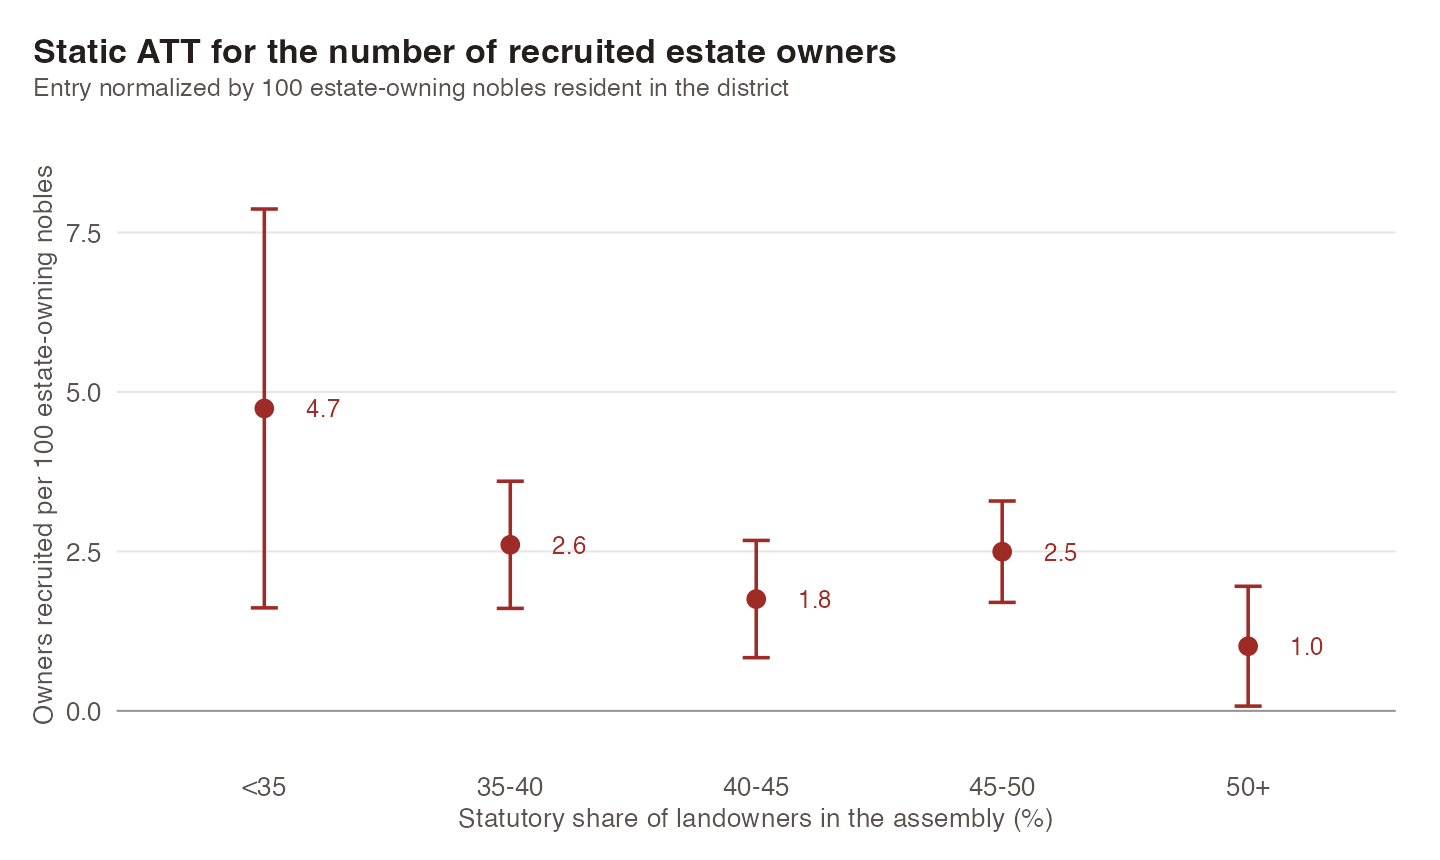
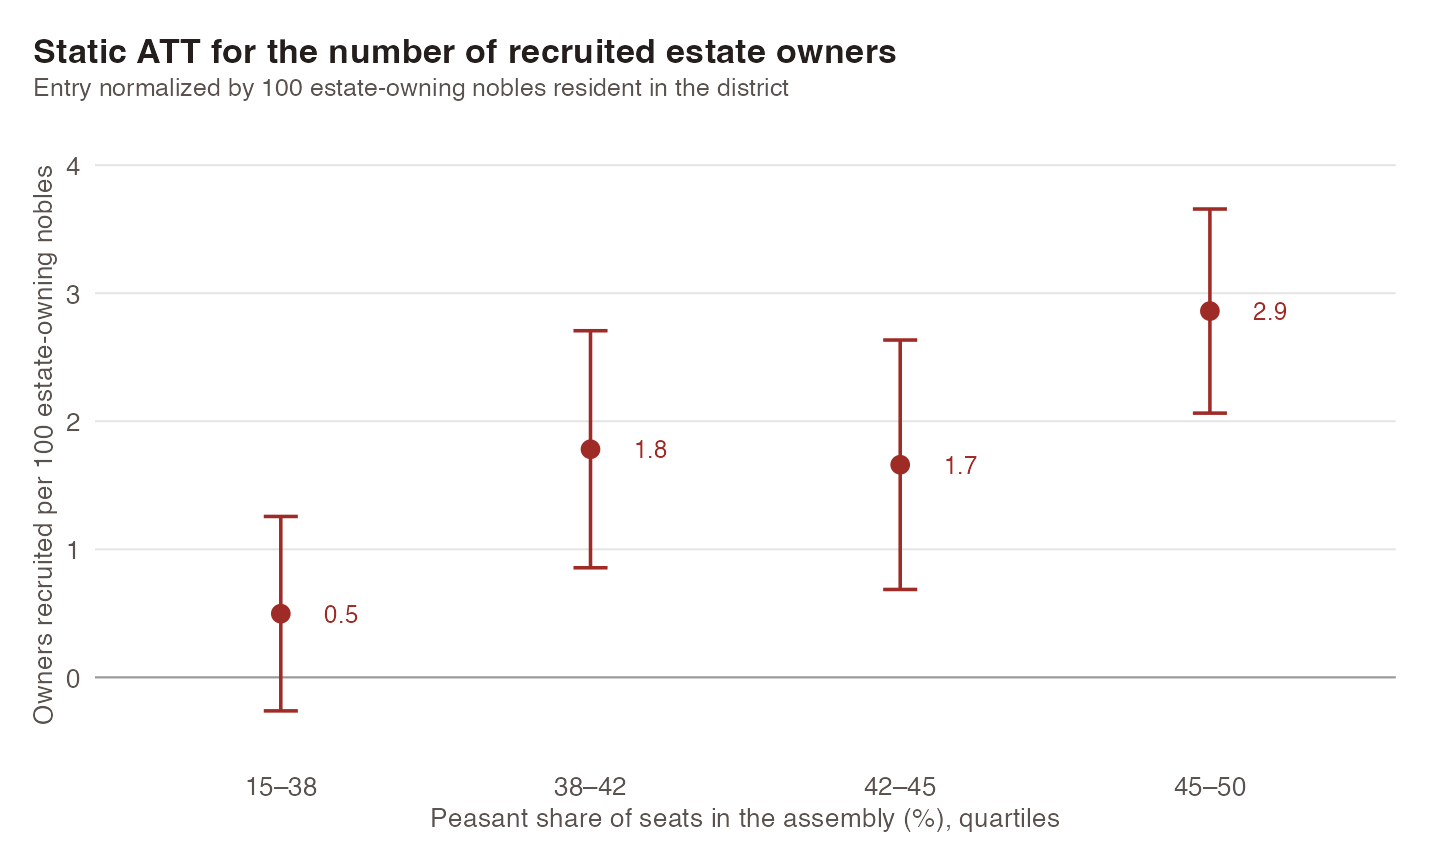
Rebuild zemstvo figure on predicted peasant-curia quartiles (balanced bands) and update caption

diff --git a/research.html b/research.html
@@ -273,7 +273,7 @@
             <p class="status"><span class="pill working">Working paper</span><span class="pill year">2026</span></p>
             <p class="byline">with Otto Kienitz</p>
             <details><summary>Abstract</summary><div class="abstract"><p>How do weak states build local capacity when they lack the money, the personnel, and the information to govern their own territory? We argue they can do it by deliberately empowering the majority against the very elites on whom their rule depends. A weak state needs local elites to staff the offices that implement policy, but it also needs more revenue and public goods than those elites, left in control of policy, will ever supply. Enfranchising a non-elite majority closes the gap twice over: it raises revenue by taxing the elite, and it draws elite members into the bureaucracy, because their marginal contribution to public goods provision rises with the revenue raised. The state then tunes the level of enfranchisement to keep elites from retaking power and extracting rents from the majority. We test the theory on the 1864 <em>zemstvo</em> reform in the Russian Empire, which produced an explosion of elite participation in local administration even as elite political power fell. We reconstruct the archival formula that allocated assembly seats and trace local political power through the taxation of noble estates, the assemblies&rsquo; budgets, and their policy record. Where the majority held power, the elite paid more, and more of the peasant-facing agenda was implemented. Participatory local government in the Russian Empire emerged not from democratic pressure below, but from an autocracy building state capacity from a position of severe weakness.</p></div></details>
-            <figure class="paperfig"><a class="figlink" href="images/figures/fig-zemstvo.png"><img src="images/figures/fig-zemstvo.png" alt="Point-and-interval plot of the static average treatment effect on owners recruited per 100 estate-owning nobles, across five bands of the statutory landowner share of the assembly." loading="lazy"></a><figcaption>Recruitment of estate owners into local administration is largest where landowners held the smallest statutory share of the assembly. Static ATT, normalized by 100 estate-owning nobles in the district, with 95% confidence intervals.</figcaption></figure>
+            <figure class="paperfig"><a class="figlink" href="images/figures/fig-zemstvo.png"><img src="images/figures/fig-zemstvo.png" alt="Point-and-interval plot of the static average treatment effect on owners recruited per 100 estate-owning nobles, across quartiles of the peasant share of seats in the assembly." loading="lazy"></a><figcaption>Recruitment of estate owners into local administration is largest where peasants held the largest share of seats in the assembly. Static ATT, normalized by 100 estate-owning nobles in the district, with 95% confidence intervals.</figcaption></figure>
             <p class="availability">Draft available upon request.</p>
             <p class="presented">Presented at the Stanford Historical Social Science Workshop, the Berkeley&ndash;Stanford Bay Area Economic History Workshop, the Andrea Mitchell Center Graduate Workshop, and the Summer Workshop in the Economic History and Historical Political Economy of Eurasia.</p>
           </div>
